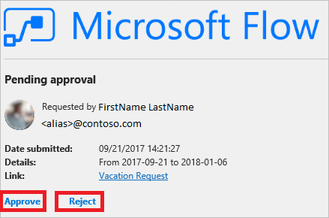
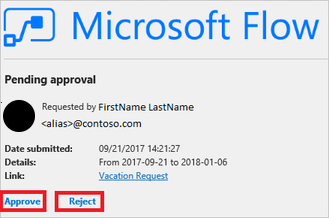
fix-image-syntax-and-blur

Changed region(s): [[0.0, 0.4404, 0.1216, 0.6055]]

diff --git a/articles/all-assigned-must-approve.md b/articles/all-assigned-must-approve.md
@@ -131,11 +131,11 @@ Now, whenever an item is added to your SharePoint list, or if an item changes, y
 
 Here's an example of the approval request that's sent to each approver.
 
-![approval request.](media/all-assigned-must-approve/approval-request.png)
+:::image type="content" source="media/all-assigned-must-approve/approval-request.png" alt-text="Screenshot of an approvak request.":::
 
 Here's an example of what a response and a response summary might look like after your flow runs.
 
-![response tokens.](media/all-assigned-must-approve/response-output.png)
+:::image type="content" source="media/all-assigned-must-approve/response-output.png" alt-text="Screenshot of an approvak request.":::
 
 ## Related information
 

diff --git a/articles/dataverse/create-update-delete-trigger.md b/articles/dataverse/create-update-delete-trigger.md
@@ -4,13 +4,14 @@ description: Learn how to trigger flows by using the When a row is added, modifi
 suite: flow
 author: radioblazer
 contributors:
+  - ishanpakuwal
   - HeatherOrt
   - radioblazer
   - v-aangie
-ms.author: matow
+ms.author: ishanpakuwal
 ms.reviewer: angieandrews
 ms.topic: how-to
-ms.date: 01/16/2026
+ms.date: 04/14/2026
 ms.update-cycle: 180-days
 ms.collection: bap-ai-copilot
 search.app: 
